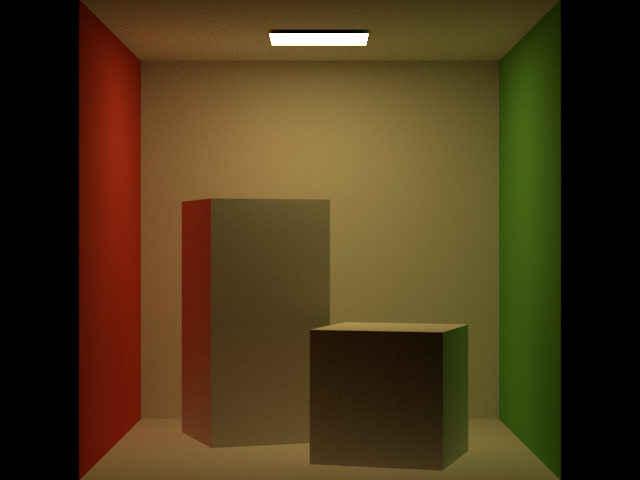
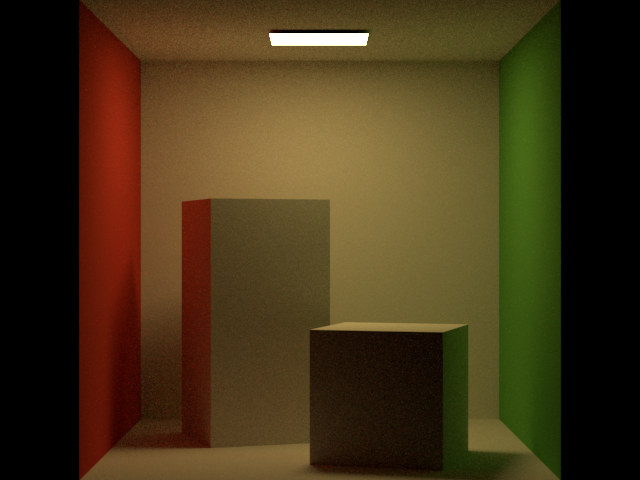
Replace Cornell box render in CPBRT project; add direct lighting Cornell box render

Changed region(s): [[0.1562, 0.5625, 0.3438, 0.9688], [0.4688, 0.875, 0.8438, 1.0]]

diff --git a/_projects/cpbrt.md b/_projects/cpbrt.md
@@ -56,7 +56,12 @@ sitemap: false
 ![](/assets/img/projects/cpbrt/3.png)
 {: style="text-align: center;"}
 
-***Cornell box, stratified sampling, 4 and 20 samples per pixel, path integrator.***
+***Cornell box, direct lighting integrator, stratified sampling, 30 samples per pixel.***
+{: style="text-align: center;"}
+![](/assets/img/projects/cpbrt/15.png)
+{: style="text-align: center;"}
+
+***Cornell box, path integrator, stratified sampling, 10 samples per pixel.***
 {: style="text-align: center;"}
 ![](/assets/img/projects/cpbrt/4.png)
 {: style="text-align: center;"}
